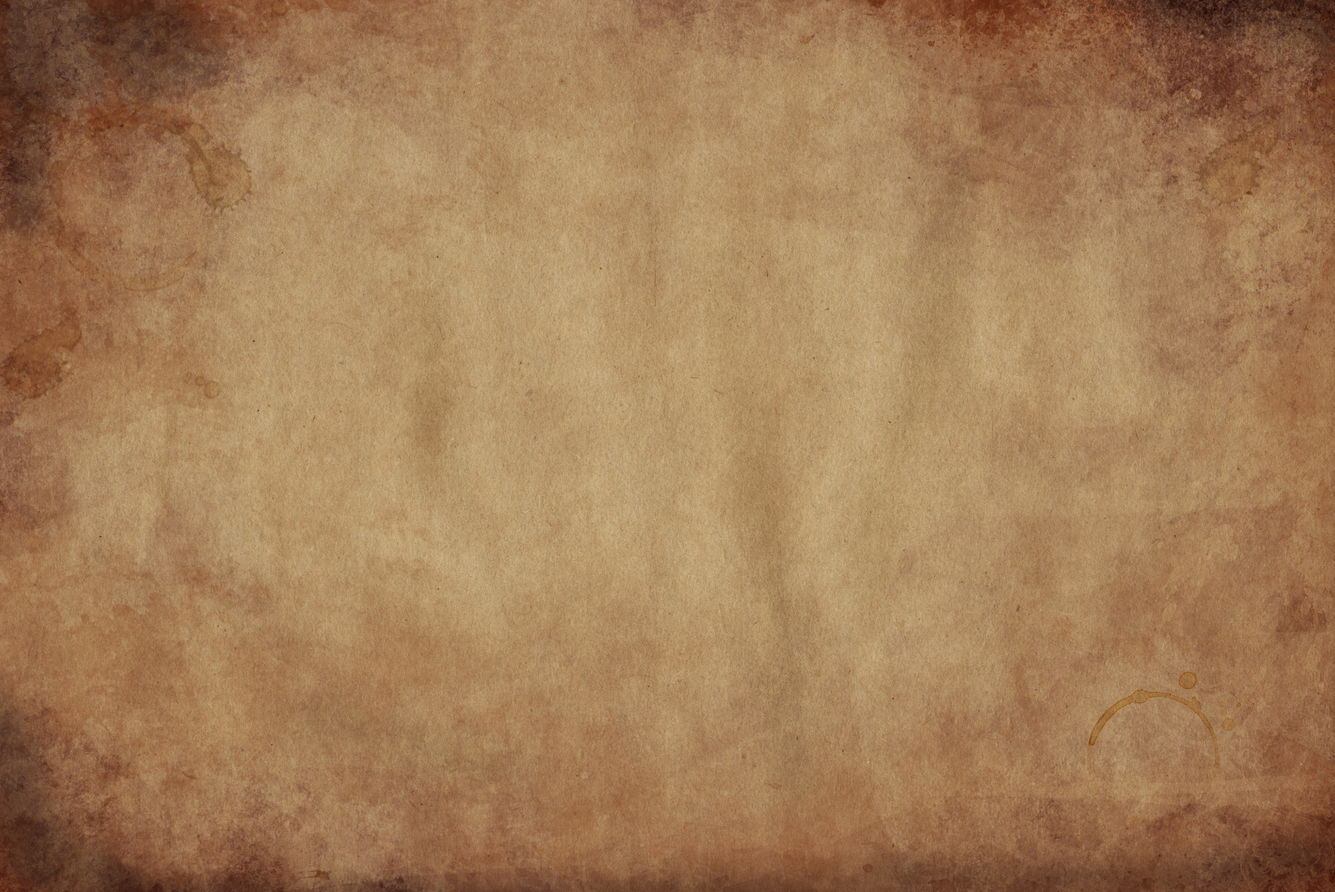
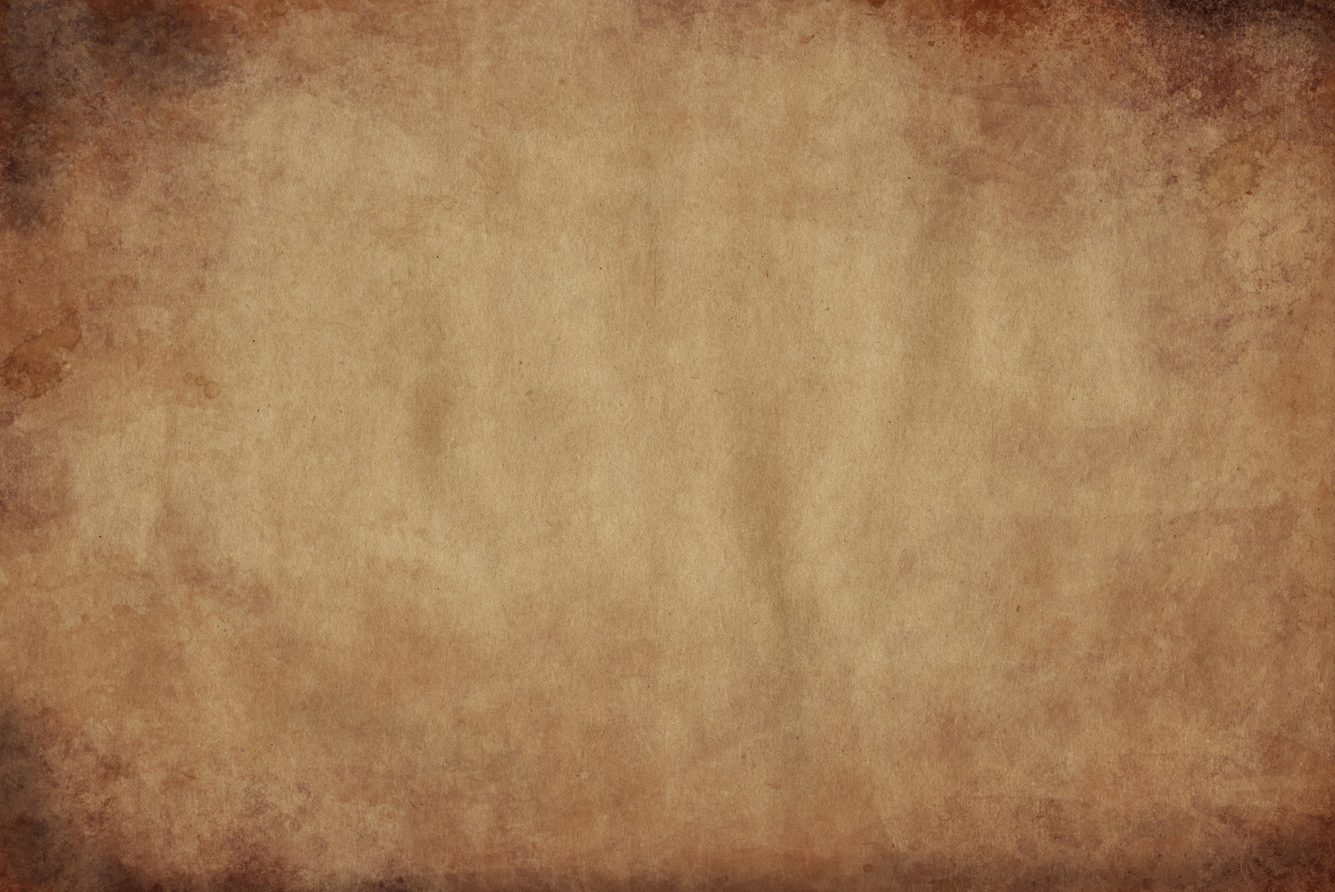
added golden titles png's, cleaned old paper texture, changed 5vh to 10vh in every module.css

diff --git a/src/app/about/page.module.css b/src/app/about/page.module.css
@@ -1,12 +1,12 @@
 .body {
   width: 100vw;
   height: 100vh;
-  padding-top: 5vh;
+  padding-top: 10vh;
 }
 
 .container {
 
-  padding-top: 10vh;
+  padding-top: 5vh;
   display: flex;
 
   /* background-color: forestgreen; */

diff --git a/src/app/charactercreation/page.module.css b/src/app/charactercreation/page.module.css
@@ -2,7 +2,7 @@
   width: 100vw;
   height: 100vh;
 
-  padding-top: 5vh;
+  padding-top: 10vh;
   display: flex;
   flex-direction: column;
 }

diff --git a/src/app/gallery/page.module.css b/src/app/gallery/page.module.css
@@ -2,7 +2,7 @@
   width: 100vw;
   height: 100vh;
 
-  padding-top: 5vh;
+  padding-top: 10vh;
 }
 
 .container {

diff --git a/src/app/gameinfo/page.module.css b/src/app/gameinfo/page.module.css
@@ -2,7 +2,7 @@
   width: 100vw;
   height: 100vh;
 
-  padding-top: 5vh;
+  padding-top: 10vh;
 }
 
 .container {

diff --git a/src/app/inventar/page.module.css b/src/app/inventar/page.module.css
@@ -2,7 +2,7 @@
   width: 100vw;
   height: 100vh;
 
-  padding-top: 5vh;
+  padding-top: 10vh;
 }
 
 .container {

diff --git a/src/app/questlog/page.module.css b/src/app/questlog/page.module.css
@@ -2,7 +2,7 @@
   width: 100vw;
   height: 100vh;
 
-  padding-top: 5vh;
+  padding-top: 10vh;
 }
 
 .container {

diff --git a/src/app/worldmap/page.module.css b/src/app/worldmap/page.module.css
@@ -2,7 +2,7 @@
   width: 100vw;
   height: 100vh;
 
-  padding-top: 5vh;
+  padding-top: 10vh;
 }
 
 .container {
